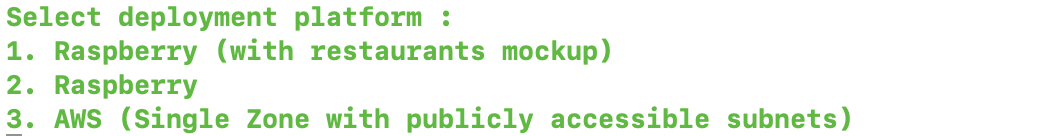
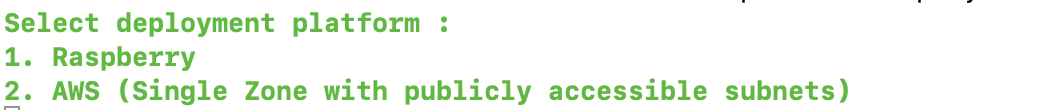
update README

Changed region(s): [[0.0, 0.0273, 0.8324, 1.0], [0.9249, 0.0, 0.9557, 0.0273]]

diff --git a/README.md b/README.md
@@ -22,7 +22,7 @@ The **deploy.sh** and **undeploy.sh** scripts are provided to run deployment/und
 
 The scripts currently expose 2 deployment/undeployment options:
 * *Raspberry* : it automates *Windfire Restaurants Backend* microservice deployment/undeployment in a Raspberry Pi target architecture;
-* *AWS* : it automates *Windfire Restaurants Backend* microservice deployment/undeployment in a AWS target architecture.
+* *AWS (Single Zone with publicly accessible subnets)* : it automates *Windfire Restaurants Backend* microservice deployment to an AWS architecture with publicly accessible Frontend and Backend subnets
 
 ### Raspberry deployment architecture
 A file, named **ansible.cfg**, is provided to set basic configurations needed to run Ansible: the **deploy.sh** and **undeploy.sh** scripts set ANSIBLE_CONFIG environment variable pointing to this file; the basic configuration you should have is something like this:
@@ -51,10 +51,10 @@ In case of deployment to AWS, since the Cloud architecture is more dynamic by na
 
 * *ansible-aws.cfg*, which dynamically sets Ansible configuration. An example of such a configuration is reported in the following figure
 
-![]([TODO])
+![](images/ansible-aws.cfg.png)
 
 * *ansible-ssh.cfg*, which sets SSH configurations to allow Ansible to connect to Frontend and Backend instances, through the Bastion Host. An example of such a configuration is reported in the following figure
 
-![]([TODO])
+![](images/ansible-ssh.png)
 
 The scripts wrap Ansible to automate deployment tasks, using the Ansible provided playbook [deployment/aws/deploy.yaml](deployment/aws/deploy.yaml) for deployment and the Ansible provided playbook [deployment/aws/remove.yaml](deployment/aws/remove.yaml) for microservice undeployment.
